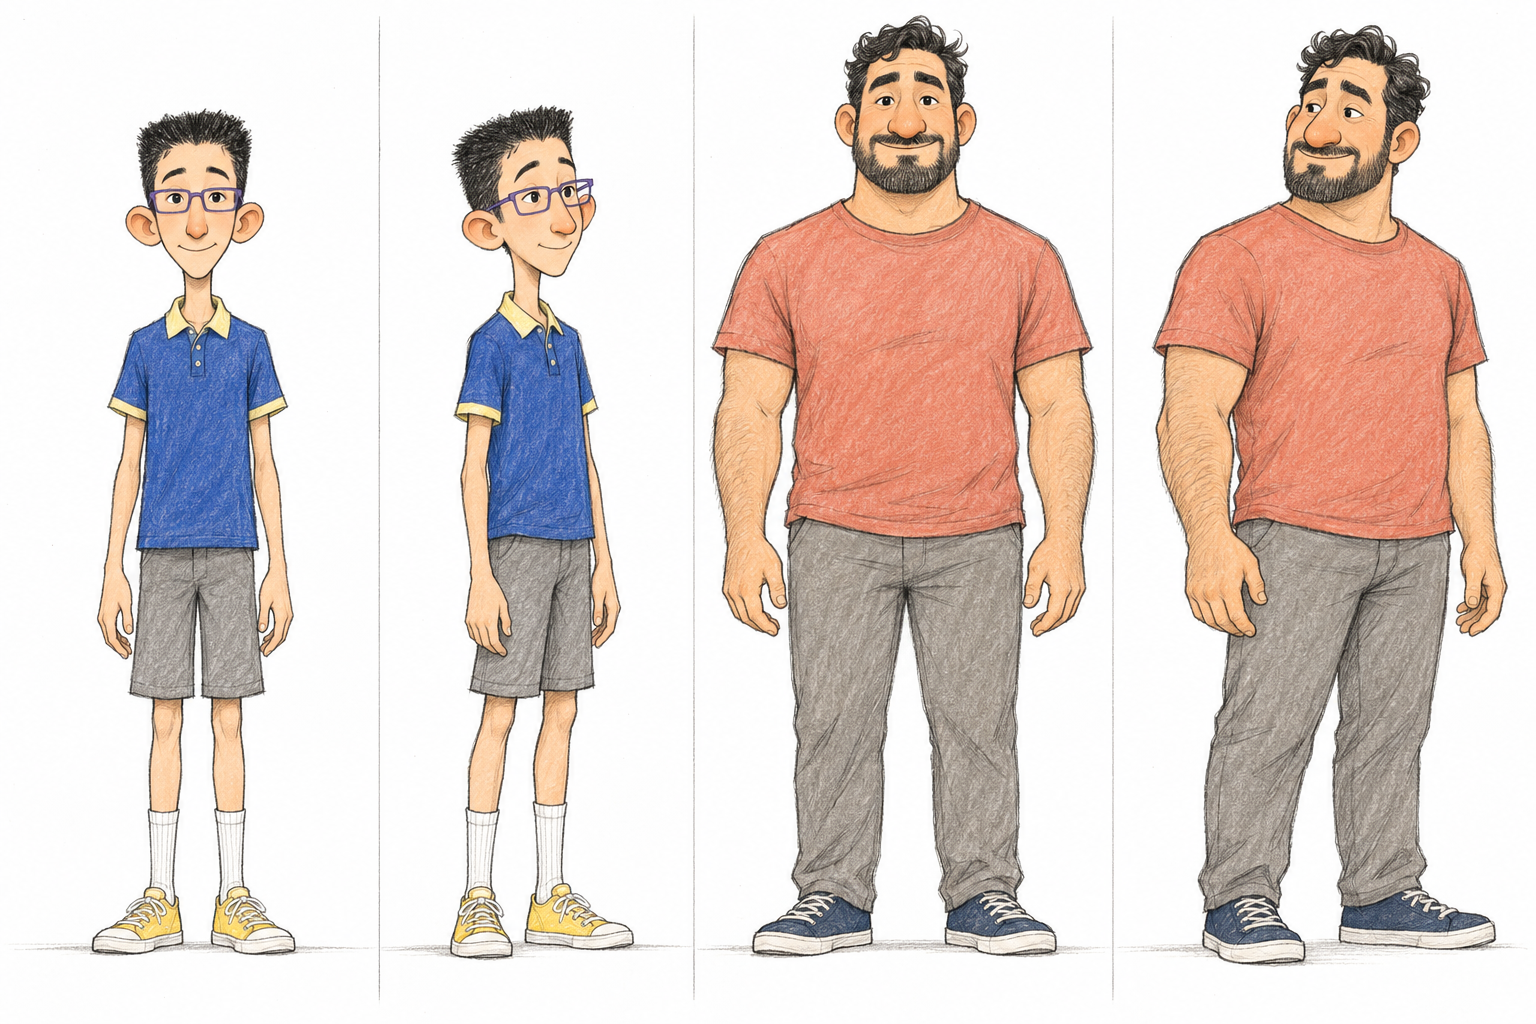
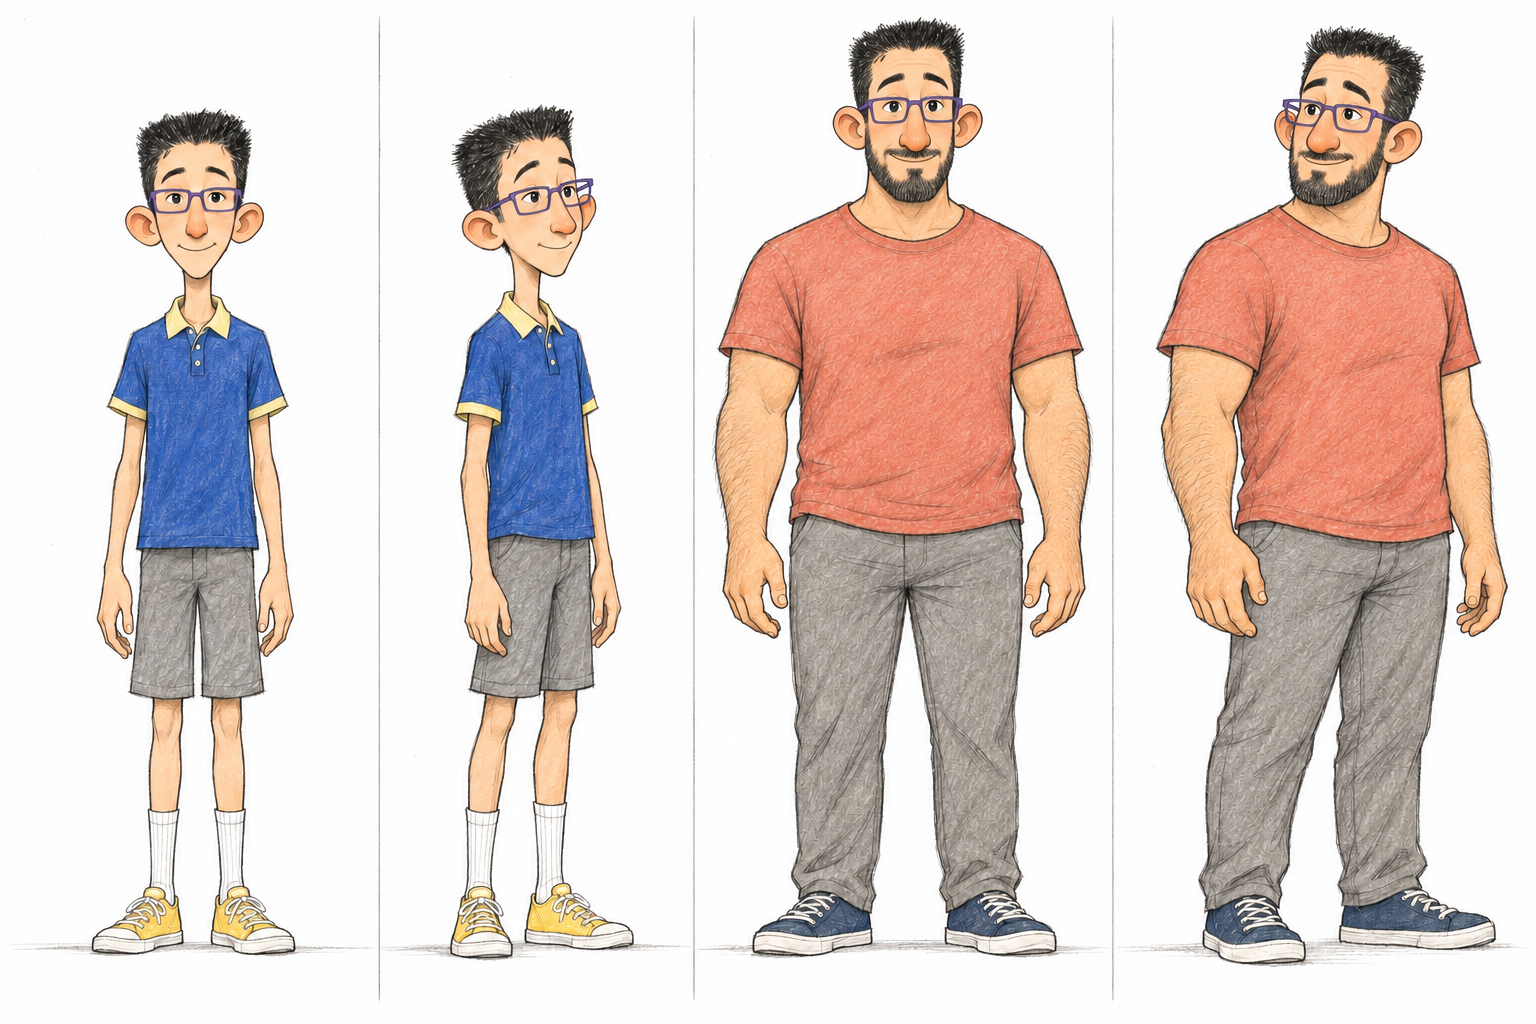
Develop story illustrations and revise father and son family resemblance

diff --git a/books/shadow-see-you-tomorrow/design-brief.md b/books/shadow-see-you-tomorrow/design-brief.md
@@ -10,7 +10,7 @@
 
 孩子藉小木熊的影子觀察日光、時間及明暗變化，夜裏用電筒繼續探索。 296個漢字，12個故事跨頁。故事先有欲望、嘗試和轉折，六個字目再由情節帶出；不把正文寫成物件清單。
 
-主角瘦長、長窄臉、大耳朵、短平頭、紫色長方眼鏡；爸爸寬肩、梯形寬臉、圓鼻與短方鬍鬚。 與另一新作不共用模型、人物或情節。先比較既有七冊人物模型：舊作大多大圓眼、圓臉、柔軟黑髮及相近頭身比；本次改變顱面、眉眼、鼻子、嘴型、年齡、身高與身形，不只更換衣服。全書保持本冊人物模型與服裝，不把膚色或體型當笑料。完整人物、臉、雙手與鞋均須連貫，避免懸空截斷肢體；臉和關鍵道具避開中縫。
+主角瘦長、長窄臉、大耳朵、短平頭、紫色長方眼鏡；爸爸寬肩、長方臉與短方鬍鬚；父子共用相似的大耳朵、長鼻、弧眉、杏眼與笑容，保留年齡及體態差異，並有紫色長方眼鏡。 與另一新作不共用模型、人物或情節。先比較既有七冊人物模型：舊作大多大圓眼、圓臉、柔軟黑髮及相近頭身比；本次改變顱面、眉眼、鼻子、嘴型、年齡、身高與身形，不只更換衣服。全書保持本冊人物模型與服裝，不把膚色或體型當笑料。完整人物、臉、雙手與鞋均須連貫，避免懸空截斷肢體；臉和關鍵道具避開中縫。
 
 六字採150%手寫楷體，普通「日」不放大；人名平平附連續專名號。爸爸是親屬稱謂，不當專名處理。故事文字與插圖分開，PDF嵌入實際字型，PPTX及SVG保留原生文字與可編輯姓名線。
 
